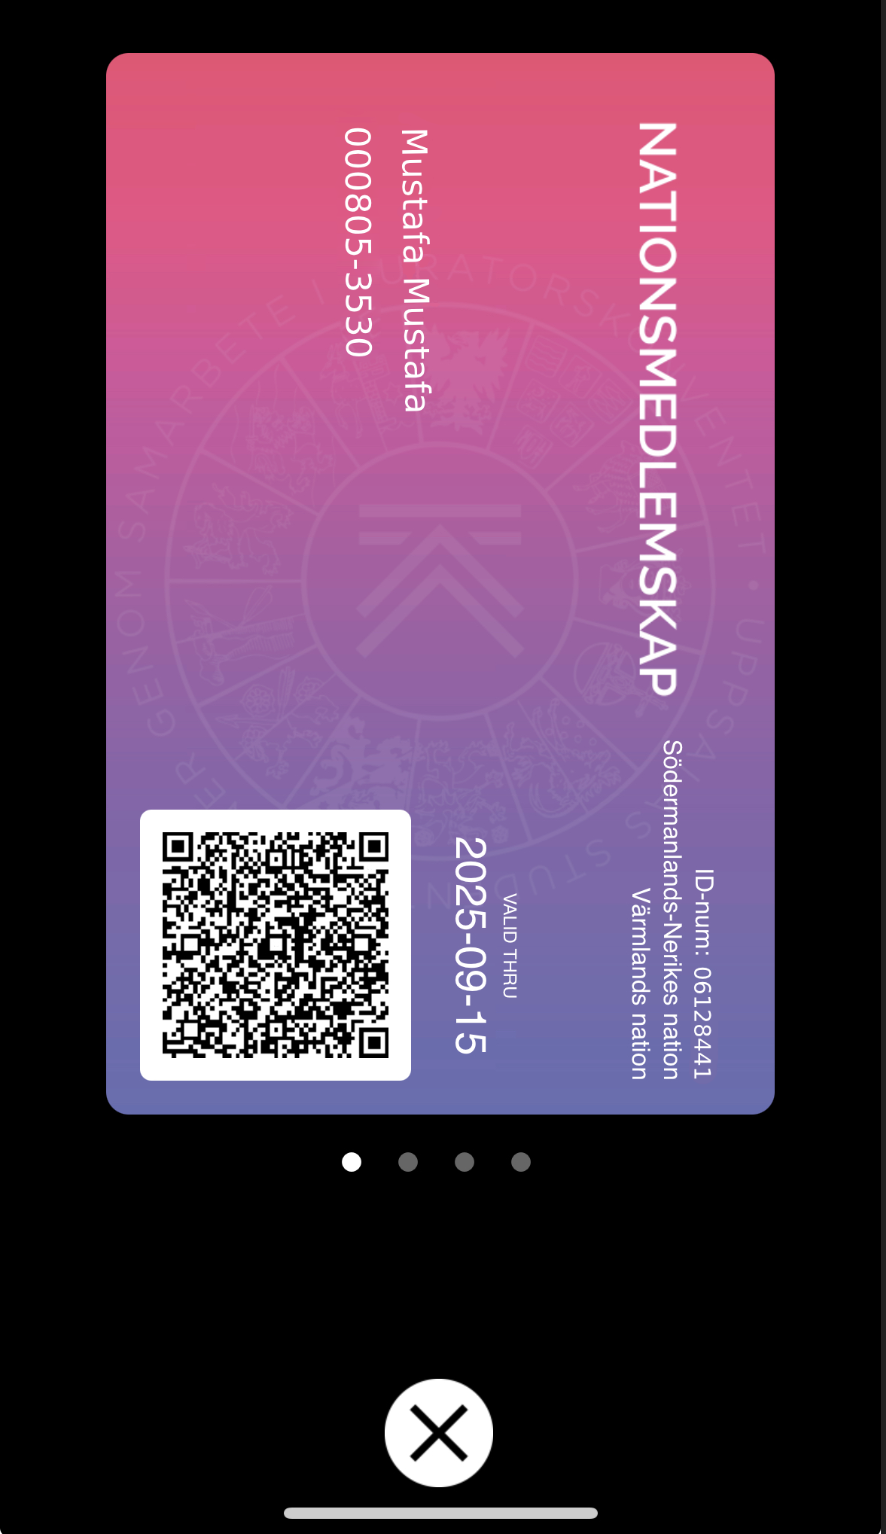
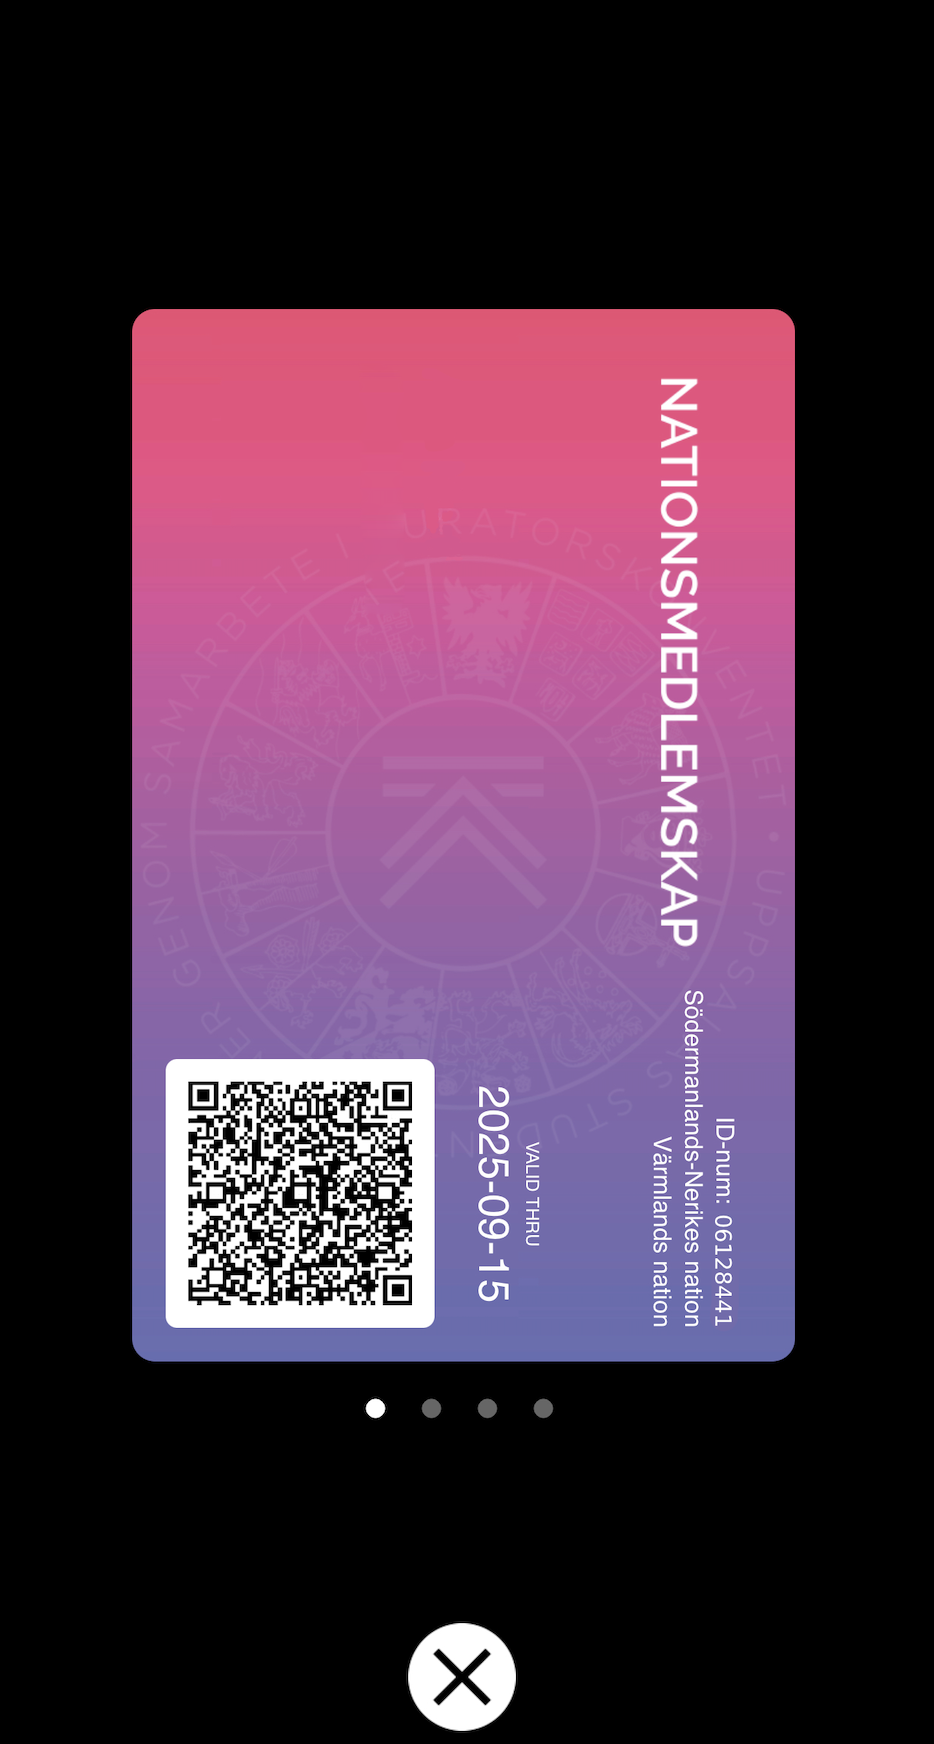
Add files via upload

diff --git a/style.css b/style.css
@@ -33,30 +33,182 @@
 
 
 
-    #overlay {
-        position: fixed;
-        inset: 0;                  /* top:0; right:0; bottom:0; left:0 */
-        background: rgba(0,0,0,.9);
-        display: flex;
-        justify-content: center;
-        align-items: center;
-        visibility: hidden;        /* gömd initialt */
-        opacity: 0;
-        transition: opacity .25s ease;
-        z-index: 2000;
-      }
-      
-      #overlay.show {
-        visibility: visible;
-        opacity: 1;
-      }
-      #overlay.hide {
-        visibility: hidden;
-        opacity: 1;
-      }
-      /* Själva stora bilden */
-      #overlay img {
-        width: 100%;
-        height: 100%;
-        object-fit: contain;       /* eller cover om du vill fylla hela rutan */
-      }
+/* --- Overlay (svart bakgrund) --- */
+#overlay {
+  position: fixed;
+  inset: 0;
+  background: black;           /* helsvart bakgrund */
+  display: none;               /* gömd initialt */
+  place-items: center;         /* centrerar innehållet */
+  z-index: 2000;
+}
+
+#overlay.show { display: grid; }
+
+/* --- Inre wrapper (kort + formulär) --- */
+.card-wrap {
+  display: flex;
+  flex-direction: column;
+  align-items: center;
+  gap: 12px;
+  max-width: 92vw;
+}
+
+/* --- Stängknapp --- */
+.close {
+  align-self: flex-end;
+  border: 0;
+  background: transparent;
+  font-size: 2rem;
+  line-height: 1;
+  color: #fff;
+  cursor: pointer;
+}
+
+/* --- Kortet --- */
+.card {
+  position: relative;
+  display: inline-block;
+  max-width: 92vw;
+  max-height: 70vh;            /* lämna plats för formuläret */
+}
+
+.card img {
+  display: block;
+  max-width: 100%;
+  max-height: 70vh;
+  height: auto;
+  width: auto;
+}
+
+/* --- Texten på kortet (samma vertikala position) --- */
+.card-text {
+  -webkit-font-smoothing: antialiased;   /* WebKit (Chrome/Safari) */
+  -moz-osx-font-smoothing: grayscale;    /* Firefox */
+  text-rendering: optimizeLegibility;    /* bättre kerning/antialiasing */
+  font-family: Arial, Helvetica, sans-serif;
+  position: absolute;
+  top: 22%;                  /* justera vertikal startposition */
+  left: 38%;                 /* justera horisontell position */
+  
+  display: flex;
+  flex-direction: column;
+  gap: 0px;                 /* avstånd mellan namn och personnummer */
+
+  writing-mode: vertical-rl; /* gör texten vertikal (uppifrån → nedåt) */
+  text-orientation: mixed;   /* bokstäverna skrivs rätt väg */
+
+  color: #fff;
+  font-weight: 100;
+  font-size: 1rem;         /* ungefär samma storlek som första kortet */
+  text-shadow: 0 0 1px rgba(0,0,0,.6); /* gör texten tydlig */
+}
+
+.card-text span {
+  /* varje rad (namn / pnr) */
+  display: inline-block;
+}
+
+/* --- Formulär under kortet --- */
+.controls {
+  display: grid;
+  grid-template-columns: 1fr 1fr auto;
+  gap: 8px;
+  width: min(700px, 92vw);
+}
+
+.controls label {
+  color: #fff;
+  display: grid;
+  gap: 4px;
+  font-size: 0.95rem;
+}
+
+.controls input {
+  padding: 10px 12px;
+  border-radius: 8px;
+  border: 1px solid #444;
+  background: #111;
+  color: #fff;
+}
+
+.controls button {
+  padding: 10px 16px;
+  border-radius: 8px;
+  border: 0;
+  background: #fff;
+  color: #000;
+  font-weight: 600;
+  cursor: pointer;
+}
+
+
+.startform {
+  display: flex;
+  gap: 10px;
+  padding: 10px;
+  background: #f0f0f0;
+  border-bottom: 1px solid #ccc;
+}
+
+.startform label {
+  display: flex;
+  flex-direction: column;
+  font-size: 0.9rem;
+}
+
+.startform input {
+  padding: 6px 8px;
+  border: 1px solid #aaa;
+  border-radius: 4px;
+}
+
+.startform button {
+  padding: 6px 12px;
+  border: none;
+  background: #333;
+  color: #fff;
+  border-radius: 4px;
+  cursor: pointer;
+}
+
+
+/* Liten knapp i hörnet */
+#openForm {
+  position: fixed;
+  top: 10px;
+  right: 10px;
+  z-index: 2100;
+  background: #333;
+  color: #fff;
+  border: none;
+  border-radius: 50%;
+  width: 40px;
+  height: 40px;
+  font-size: 1.2rem;
+  cursor: pointer;
+}
+
+/* Formulär-overlay */
+#formOverlay {
+  position: fixed;
+  inset: 0;
+  background: rgba(0,0,0,0.8);
+  display: none;
+  place-items: center;
+  z-index: 2000;
+}
+
+#formOverlay.show {
+  display: grid;
+}
+
+#formOverlay .controls {
+  background: #111;
+  padding: 20px;
+  border-radius: 12px;
+  display: grid;
+  gap: 10px;
+  color: #fff;
+  width: 300px;
+}

diff --git a/index.html b/index.html
@@ -16,24 +16,47 @@
 </head>
 
 <body>
-
-
   <main>
-    <!-- Byt src till ågot du får bädda in -->
+        <button id="openForm" onclick="visaForm()">⚙</button>
+
+
+    <!-- Iframe eller annan innehåll -->
     <iframe
       class="embed-frame"
       src="https://mecenat.com/se"
       title="Inbäddad sida">
     </iframe>
 
-    <header onclick="ta()">
-        
-      </header>
+    <!-- Knappen som öppnar kortet -->
+    <header onclick="ta()"></header>
 
-    <div id="overlay" onclick="bort()">
-        <img src="fullsize.jpg" alt="Större bild">
+    <div id="formOverlay" onclick="stängForm()">
+      <form class="controls" onsubmit="return sparaData(event)" onclick="event.stopPropagation()">
+        <label>
+          Namn
+          <input id="nameIn" type="text" placeholder="För- och efternamn" required>
+        </label>
+        <label>
+          Personnummer
+          <input id="pnrIn" type="text" placeholder="ÅÅÅÅMMDD-XXXX" required>
+        </label>
+        <button type="submit">Spara</button>
+      </form>
+    </div>
+
+    <!-- Overlay med kortet -->
+    <div id="overlay">
+      <div class="card" onclick="bort()">
+        <img src="fullsize.jpg" alt="Större bild av kortet">
+        <div id="cardText" class="card-text">
+          <span id="nameOut"></span>
+          <span id="pnrOut"></span>
+        </div>
       </div>
+    </div>
   </main>
+
   <script src="script.js"></script>
+</body>
 </body>
 </html>

diff --git a/script.js b/script.js
@@ -1,11 +1,28 @@
-function ta() {
-  document.getElementById('overlay').classList.add('show');
+let userName = "";
+let userPnr  = "";
+
+function visaForm() {
+  document.getElementById('formOverlay').classList.add('show');
 }
 
+function stängForm() {
+  document.getElementById('formOverlay').classList.remove('show');
+}
 
+function sparaData(e) {
+  e.preventDefault();
+  userName = document.getElementById('nameIn').value.trim();
+  userPnr  = document.getElementById('pnrIn').value.trim();
+  stängForm();
+  alert("Dina uppgifter har sparats! Klicka på kortknappen för att se kortet.");
+  return false;
+}
 
-
-
+function ta() {
+  document.getElementById('nameOut').textContent = userName;
+  document.getElementById('pnrOut').textContent  = userPnr;
+  document.getElementById('overlay').classList.add('show');
+}
 
 function bort() {
   document.getElementById('overlay').classList.remove('show');
